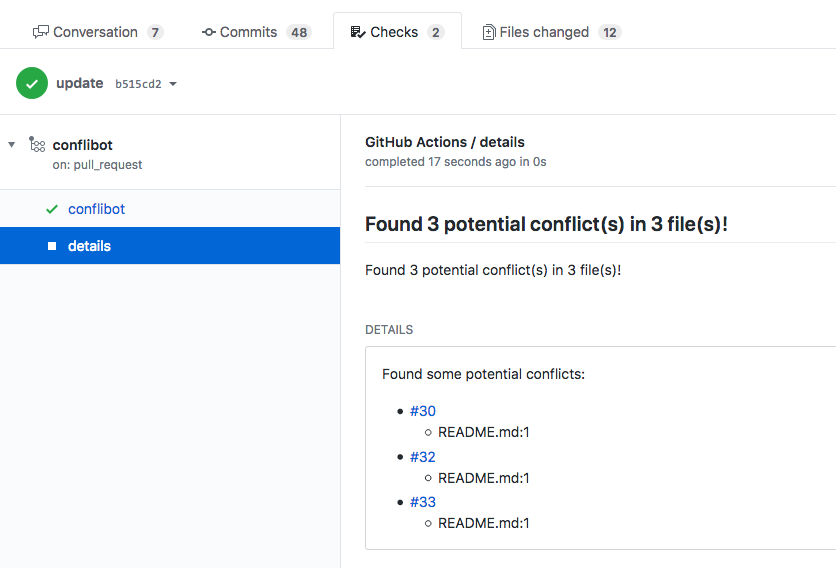
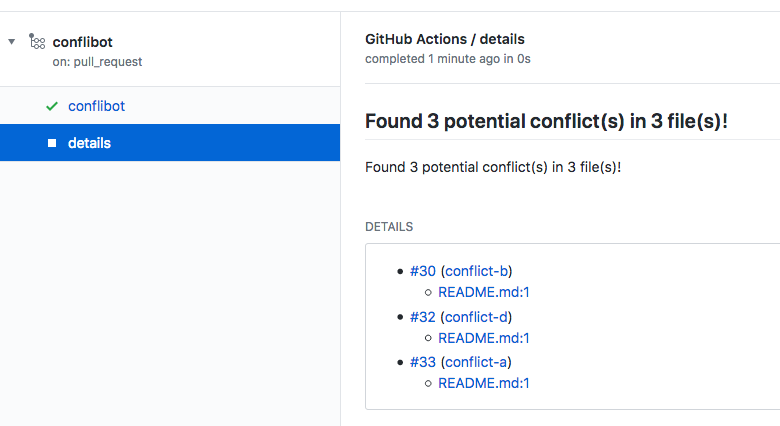
Linkify check details

diff --git a/dist/index.js b/dist/index.js
@@ -5616,9 +5616,21 @@ class Conflibot {
                 if (conflicts.length == 0)
                     return this.exit("success", "No potential conflicts found!");
                 const text = conflicts
-                    .map(conflict => `- #${conflict[0].number}\n${conflict[1]
-                    .map(file => `  - ${file}`)
-                    .join("\n")}`)
+                    .map(conflict => {
+                    const branch = conflict[0].head.ref;
+                    const sha = conflict[0].head.sha;
+                    const baseUrl = `https://github.com/${github.context.repo.owner}/` +
+                        `${github.context.repo.repo}`;
+                    return (`- #${conflict[0].number} ([${branch}](${baseUrl}/tree/${branch}))\n` +
+                        conflict[1]
+                            .map(file => {
+                            const match = file.match(/^(.*):(\d)$/);
+                            if (!match)
+                                return `  - ${file}`;
+                            return `  - [${file}](${baseUrl}/blob/${sha}/${match[1]}#L${match[2]})`;
+                        })
+                            .join("\n"));
+                })
                     .join("\n");
                 const sum = conflicts.map(c => c[1].length).reduce((p, c) => p + c);
                 const files = conflicts.length;

diff --git a/src/index.ts b/src/index.ts
@@ -143,12 +143,24 @@ class Conflibot {
         return this.exit("success", "No potential conflicts found!");
 
       const text = conflicts
-        .map(
-          conflict =>
-            `- #${conflict[0].number}\n${conflict[1]
-              .map(file => `  - ${file}`)
-              .join("\n")}`
-        )
+        .map(conflict => {
+          const branch = conflict[0].head.ref;
+          const sha = conflict[0].head.sha;
+          const baseUrl =
+            `https://github.com/${github.context.repo.owner}/` +
+            `${github.context.repo.repo}`;
+
+          return (
+            `- #${conflict[0].number} ([${branch}](${baseUrl}/tree/${branch}))\n` +
+            conflict[1]
+              .map(file => {
+                const match = file.match(/^(.*):(\d)$/);
+                if (!match) return `  - ${file}`;
+                return `  - [${file}](${baseUrl}/blob/${sha}/${match[1]}#L${match[2]})`;
+              })
+              .join("\n")
+          );
+        })
         .join("\n");
 
       const sum = conflicts.map(c => c[1].length).reduce((p, c) => p + c);
